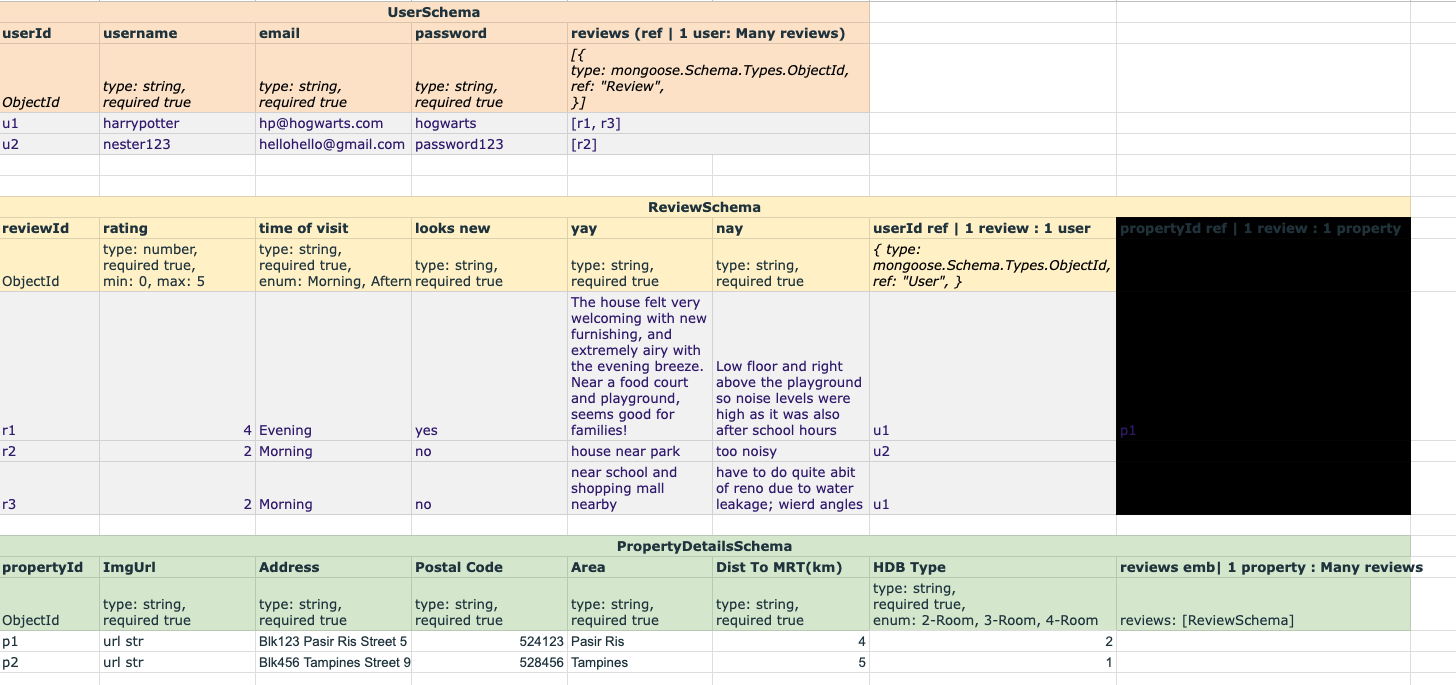
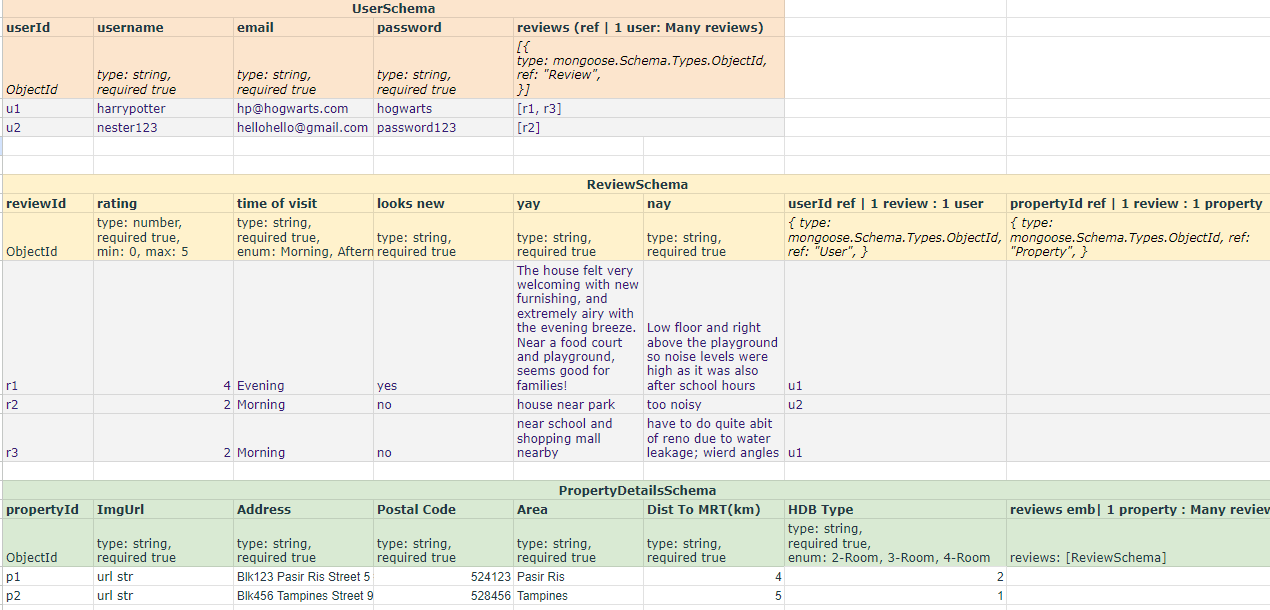
feat updated readme w screenshots

diff --git a/README.md b/README.md
@@ -2,6 +2,8 @@
 
 A property review app with reviews by your fellow home searchers!
 
+---
+
 ## Description / User Story
 
 As a home searcher, I want to read honest home listings because the current propery apps available are only written up by property agents who try to paint a more rosy picture due to their own interests which might not be as aligned with the home searcher. On the contrary, fellow home searchers all have the same goals - to find the perfect home according to their needs.
@@ -10,29 +12,29 @@ Everyone has different requirements and opinions to what constitutes a perfect h
 
 As some things are quite subjective when it comes to housing opinions, it would be beneficial to look at the house from different perspectives of your fellow home searchers and see if there are other things that you have failed to consider but actually found it quite critical in your search for the perfect home.
 
-## Getting Started- Planning
+## Getting Started - Planning
 
-### Project Time Frame
+#### Project Time Frame
 
 2 weeks
 
-### Trello
+### [Trello Board](https://trello.com/b/nMGA0Eyq/ga-sei-project-3)
 
-[Trello Board](https://trello.com/b/nMGA0Eyq/ga-sei-project-3)
 <img src="screenshots/trello.png">
 
 ### WireFrame in [Figma](https://www.figma.com/board/tnVfWKHcX4gzCulPPkbyaR/Project-3?node-id=0%3A1&t=IE89gLKHWpSDTkl7-1)
 
 <img src="screenshots/wireframe.png">
 
-### Example Schema
+### Example Schema in [Google Sheets](https://docs.google.com/spreadsheets/d/1En5AYS5Jb8o0fZvBJPKw_9DJl8ueUhnMdwmN__04wTc/edit?usp=sharing)
 
-[Google Sheets](https://docs.google.com/spreadsheets/d/1En5AYS5Jb8o0fZvBJPKw_9DJl8ueUhnMdwmN__04wTc/edit?usp=sharing)
 <img src="screenshots/exampleSchema.png">
 
 ### Deployed on Render
 
 Try it here: (https://nestopinion.onrender.com/)
+
+---
 
 ## [MERYL](https://github.com/Merylcheng)
 
@@ -66,7 +68,63 @@ A property can have many reviews, which is a one-to-many relationship. Embedding
 
 Working on this project as a team requires clear communication and effective project management. I am grateful that my team is very efficient in setting direction and goals for the project. For me, documenting the process has been a huge part of this project. Spending time planning my schedule, estimating and visualizing what I can complete, strategizing on how to tackle errors, and setting mini to-do lists the day before helps me manage myself and ensure good overall team progression.
 
-## [VANITA](https://github.com/vanitaar)
+---
+
+## [VANITAA](https://github.com/vanitaar)
+
+### User Model with Referencing in reviewsPosted Array
+
+<img src="screenshots/userModel.png">
+
+### AuthContext
+
+Created AuthContext in order to carry authenticated user state throughout app and avoid prop drilling. This allowed me to then access AuthContext to determine user authorization. The {children} is in refrence to the App component.
+
+<img src="screenshots/AuthContext.png">
+
+### AuthRoutes and Using Middleware
+
+<img src="screenshots/authRoutes.png">
+
+### Fav Component: User's Dashboard
+
+"My Profile" is the default tab.
+<img src="screenshots/dashboard-profileSettings.png">
+Users can click "My Reviews" to view their posted reviews.
+<img src="screenshots/dashboard-postedReviews.png">
+
+#### Dashboard Functionalities in AuthController
+
+**CRUD: _Update_**
+<img src="screenshots/authUpdatePassword.png">
+**CRUD: _Delete_**
+<img src="screenshots/authDeleteReview.png">
+
+### Another Fav: Protected Route
+
+Created protected route to establish paths that require authorization and authentication.
+
+<img src="screenshots/protectedRoute.png">
+<img src="screenshots/protectedRouteClientSideUrlPath.png">
+
+### Navigating
+
+Wanted users who have been prompted to login or register to be able to return to their intended destination i.e. review form page of desired property. User flow:
+
+- _add review - login - review form_
+- _add review - login - register - review form_
+  <img src="screenshots/handleAddReview-navigate.png">
+  <img src="screenshots/register-navigate.png">
+
+### Key Learnings and Challengers
+
+- Working with **TailwindCSS** for the first time. Quite a jump from Bulma. But once you get the hang of it, styling with it becomes easier. I also like how it reinforces CSS fundementals.
+- I initially had a hard time connecting the dots between frontend and backend. I do feel doing this project helped me have a better grasp of **client side vs server side** and how to connect them.
+- Have a better understanding of **embedding vs referencing**. Embedding involves sub-documentation while referencing involves the storing of ObjectId.
+- Realized the importance of **middleware**.
+- Working and collaborating in a **team** for a coding project has been a different experience. It requires communication and proper planning. There's the added challenge of understanding and explaining one's code and also the realization that we all have different coding styles. I am thankful for my groupmates and I feel quite proud of how far we have come.
+
+---
 
 ## [JANE](https://github.com/Janethq)
 
@@ -113,14 +171,67 @@ Working on this project as a team requires clear communication and effective pro
 - Learnt how to navigate monorepo
 - Got more familiar with security concerns while creating an app
 
-### Technologies Used
+---
 
--
--
+### Tech Stack
 
-### Next Steps
+##### Programming Language
 
--
--
+- **Javascript** - For both frontend and backend
+
+##### Frontend
+
+- **Vite** - Fast development build tool
+- **React** - JavaScript library for building user interfaces
+- **Tailwind CSS** - Utility-first CSS framework for styling
+- **React Hot Toast** - Notification library for React
+
+##### Backend
+
+- **Node.js** - JavaScript runtime environment
+- **Express** - Web application framework for Node.js
+
+##### Database
+
+- **MongoDB** - NoSQL database
+- **Mongoose** - MongoDB object modeling tool
+
+##### Authentication & Security
+
+- **JSON Web Token (JWT)** - For creating and verifying tokens
+- **jwt-decode** - Library to decode JWT tokens
+- **bcrypt** - Password hashing library
+
+##### Deployment
+
+- **Render** - Cloud platform for deploying web applications
+
+##### Development & Testing Tools
+
+- **MongoDB Compass** - GUI tool for MongoDB
+- **Bruno** - API testing tool (for backend validation)
+- **VS Code** - Code editor
+- **Trello** - Project management tool
+- **Figma** - Wireframe tool (for UI/UX design)
+
+### Icebox
+
+- An additional user role: House Hunters and **Property Agents**
+
+  - Agents would be able to create initial listings for properties and then manage them (update/delete).
+
+- Allow house hunters to **upload images** in the review form.
+
+- Allow users to **clap/upvote** for a review enabling interaction between fellow users.
+
+- Include **map** to direct to property location.
+
+- Include more **user dashboard functionalities**:
+
+  - edit their posted reviews / update username / delete account.
+
+- Enable **Google sign-in**
+
+---
 
 ### QnA + Feedback
